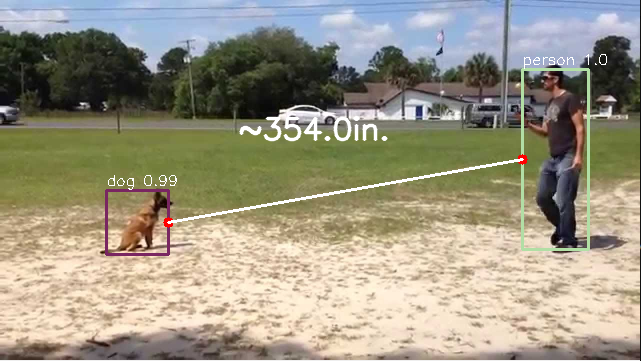
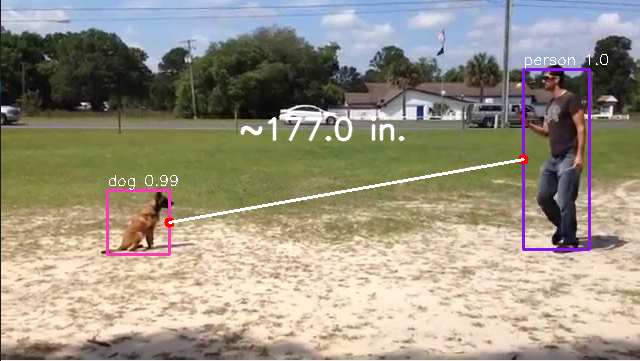
changes in output images

diff --git a/objectDetectionModule.py b/objectDetectionModule.py
@@ -185,6 +185,6 @@ class objectDetector():
             cv2.circle(img, distance_end_point, 5, (0, 0, 255), -1)
             cv2.line(img, distance_start_point, distance_end_point, distance_color, distance_thickness)
 
-            cv2.putText(img, "~" + str(estimated_distance_inches) + "in.", distance_text_point, font, font_scale, font_color, font_thickness, cv2.LINE_AA)    
+            cv2.putText(img, "~" + str(estimated_distance_inches) + " in.", distance_text_point, font, font_scale, font_color, font_thickness, cv2.LINE_AA)    
 
         return img

diff --git a/distanceMeasurement_image.py b/distanceMeasurement_image.py
@@ -2,7 +2,7 @@ import cv2
 from objectDetectionModule import objectDetector
 
 
-img = cv2.imread('images/image6.jpg')
+img = cv2.imread('images/image4.jpg')
 
 h, w, _ = img.shape
 

diff --git a/README.md b/README.md
@@ -3,7 +3,7 @@ Measuring the distance between two objects using Pythagorean Theorem and OpenCV
 
 # Output 
 Distance between two objects i.e. Person and Dog
-1. [First Output](/output/OutPut1.png)
+1. [First Output](/output/output1.png)
 2. [Second Output](/output/output2.png)
 
 # License
